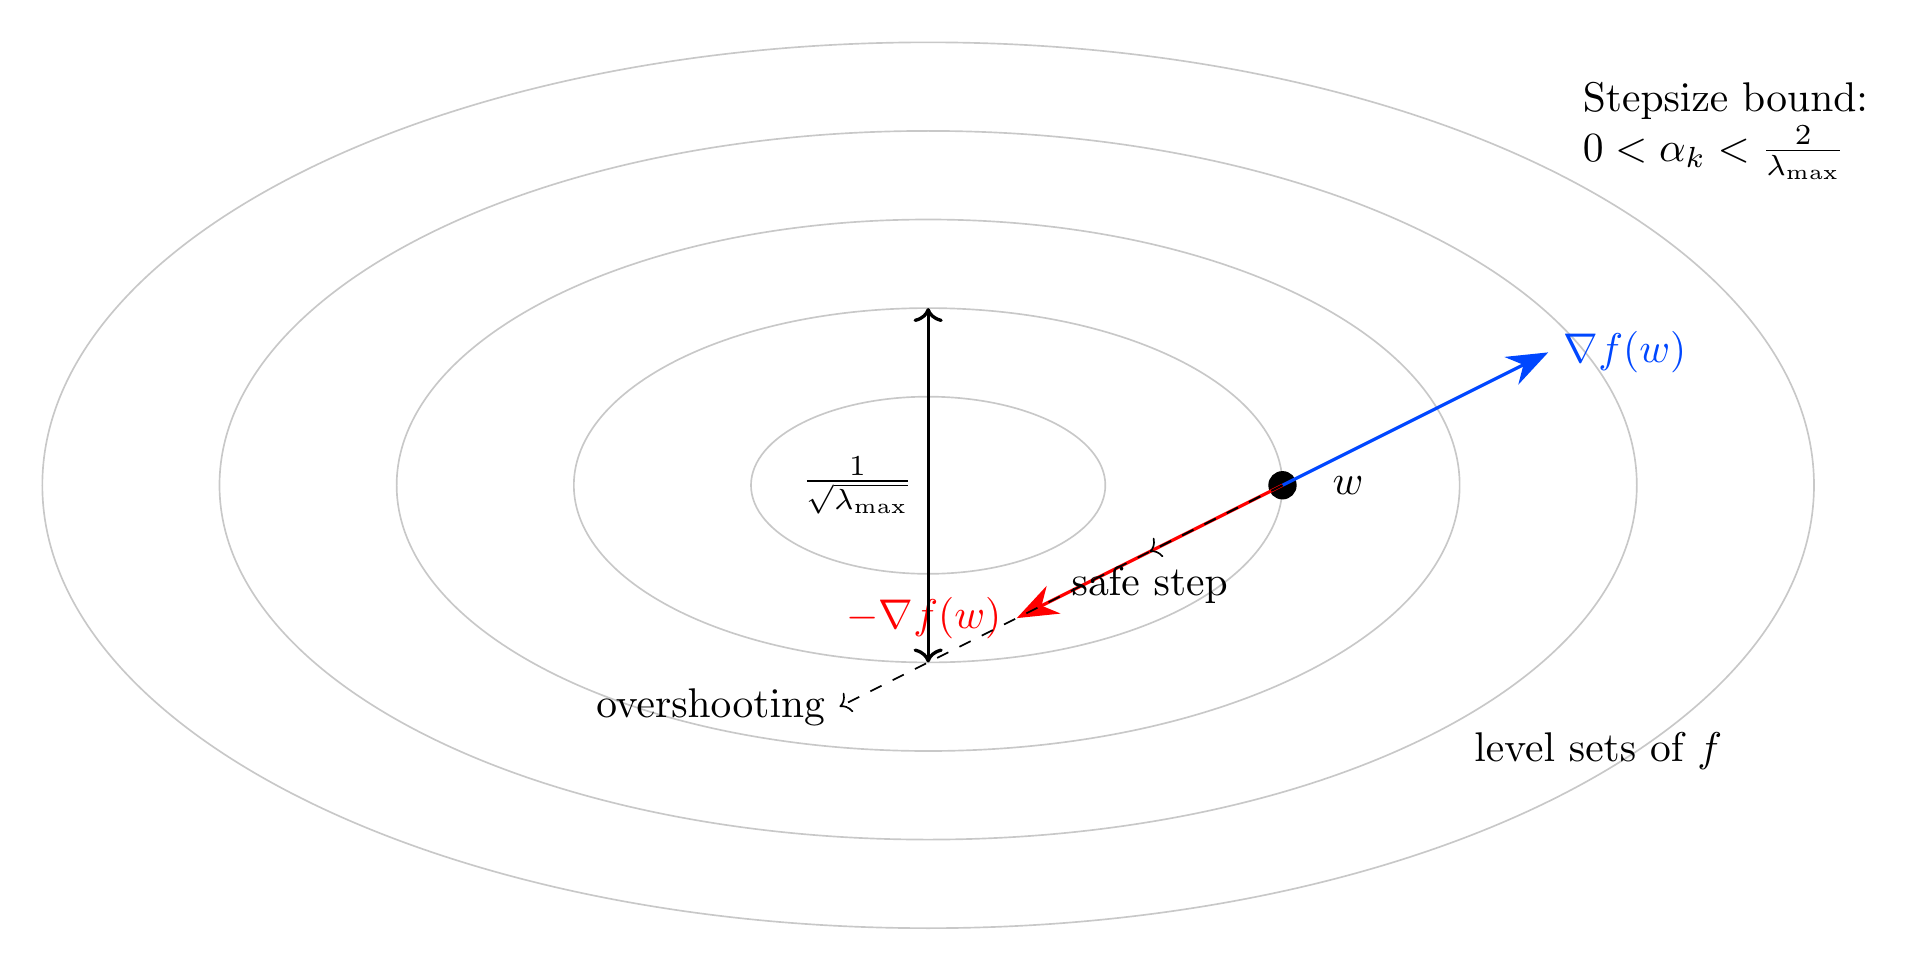
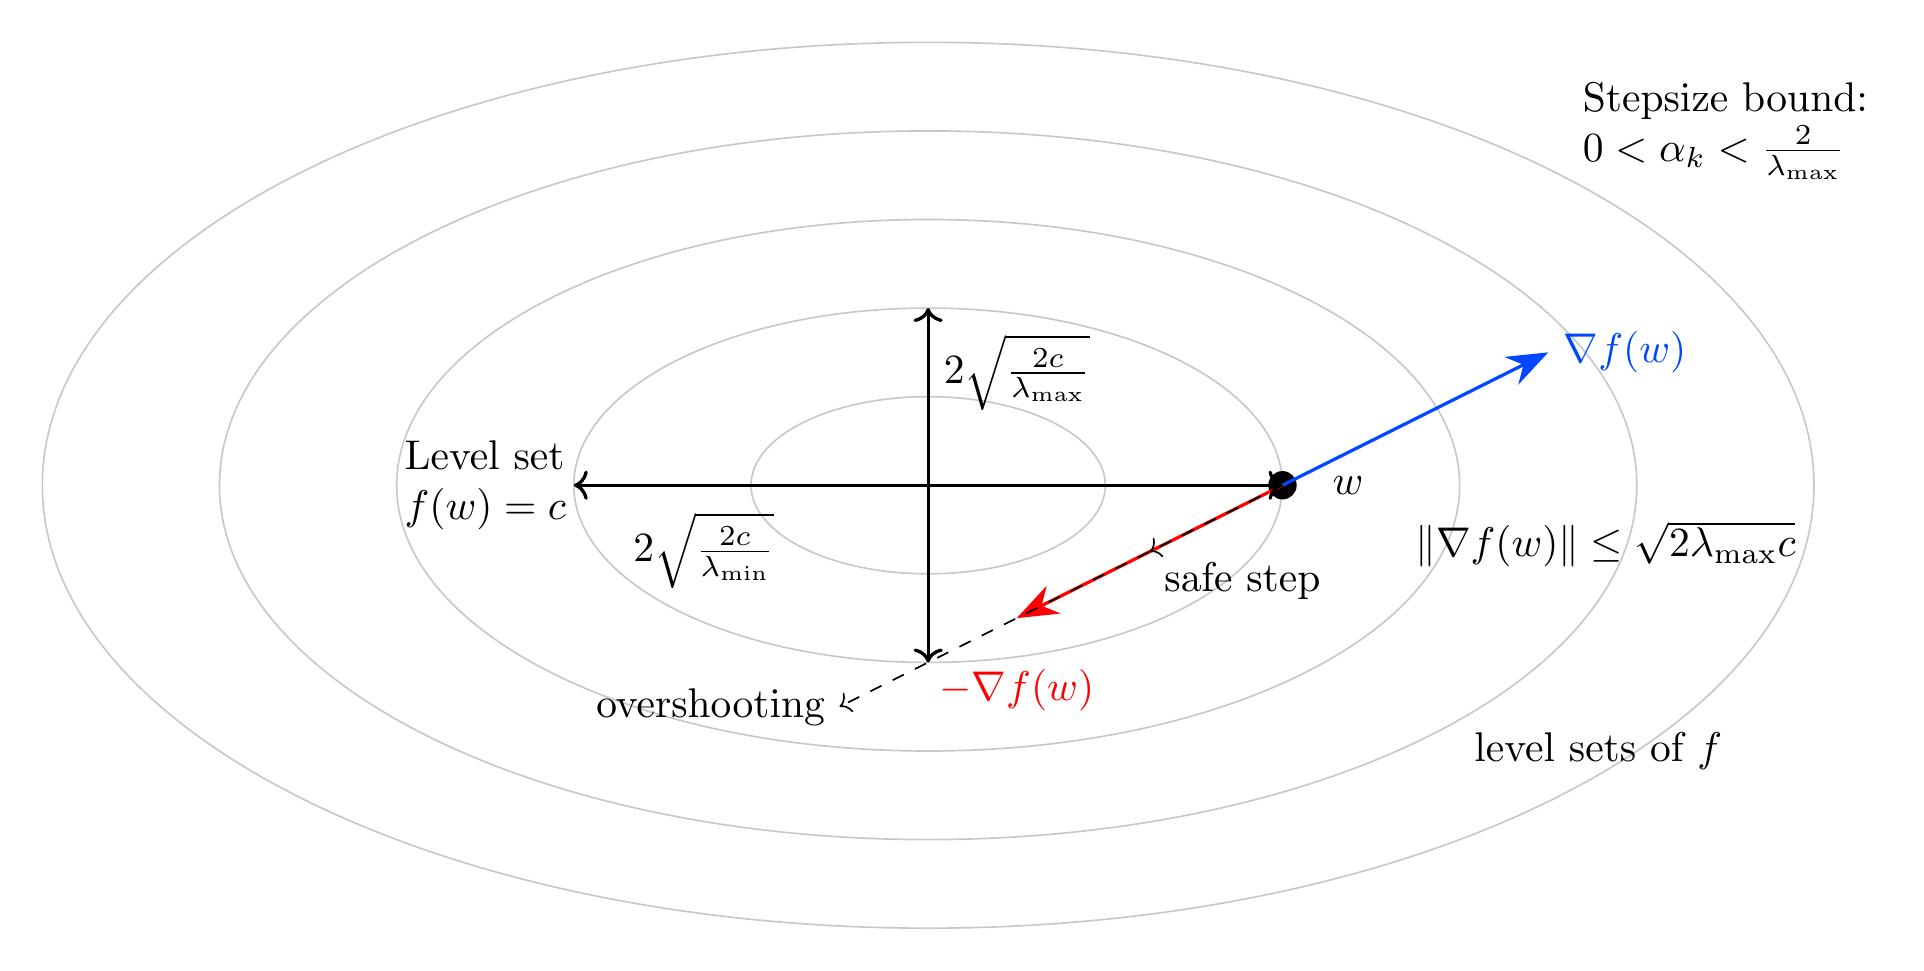
Update notes.md for enhanced clarity and consistency in formatting

diff --git a/section/3/notes.md b/section/3/notes.md
@@ -1,9 +1,8 @@
 ---
 layout: course_page
-title: Iterative Methods for Least Squares
+title: Linear regression: gradient descent
 ---
-
-# 3. Iterative Methods for Least Squares
+# Linear regression: gradient descent
 
 ## Notebooks and Slides
 - [Lecture slides](slides.pdf)
@@ -233,9 +232,13 @@ When the gradient vanishes, something remarkable happens: we've found a point wh
 
 This principle extends far beyond least squares. When the gradient of any function $f$ is zero, we've found what mathematicians call a first-order critical point or stationary point. The name captures the geometry: the function has stopped changing (to first order) in every direction, just as a ball at rest on a surface has no tendency to roll in any direction. This is precisely what you learned about minimizers in calculus - the gradient must vanish at any local minimum.
 
+![Critical Points](figures/critical_points.png)
+
 But not every critical point is a minimum - think of a ball balanced on a hill (a maximum) or resting at a saddle point. To guarantee we've found a minimum, we need to examine the second derivatives. In multiple dimensions, these form the Hessian matrix, which measures the local curvature in every direction. When the Hessian is positive definite (all eigenvalues positive), every direction curves upward, and we've found a local minimum.
 
-Our least squares problem has an even nicer structure. The Hessian $X^\top X$ is positive semidefinite everywhere - it's the same matrix at every point, with eigenvalues that are always nonnegative. This constant positive curvature explains the perfect elliptical level sets we saw earlier and is a signature of convex functions, where every local minimum must be a global minimum. We'll explore convexity in detail later, but for now, we have a powerful guarantee: when gradient descent finds a point where the gradient vanishes, we've solved our problem completely.
+Our least squares problem has an even nicer structure. The Hessian $X^\top X$ is positive semidefinite everywhere - it's the same matrix at every point, with eigenvalues that are always nonnegative. (See the figure below for a one-dimensional example.) This positive curvature explains the elliptical level sets we saw earlier and is a signature of convex functions, where every local minimum must be a global minimum.We'll explore convexity in detail later, but for now, we have a powerful guarantee: when gradient descent finds a point where the gradient vanishes, we've solved our problem completely.
+
+![Convex Quadratic](figures/convex_quadratic.png)
 
 ## The Algorithm
 
@@ -253,9 +256,9 @@ where $\lambda_{\max}$ is the largest eigenvalue. This connects beautifully to o
 
 ![Stepsize Geometry](figures/stepsize_geometry.png)
 
-The figure illustrates why the stepsize bound depends on $\lambda_{\max}$. The narrowest width of the level sets (shown by the vertical arrow) is proportional to $1/\sqrt{\lambda_{\max}}$ - this occurs in the direction of the eigenvector corresponding to $\lambda_{\max}$. Taking too large a step (shown by the "overshooting" path) moves us outside the current level set and potentially increases the objective value. The "safe step" stays within a region where our linear approximation remains valid. This geometric insight explains why we need smaller steps when $\lambda_{\max}$ is large - the level sets become very narrow in their thinnest direction, requiring more careful progress to avoid overshooting.
+The figure illustrates why the stepsize bound depends on $\lambda_{\max}$. For any level set where $f(w) = c$, it can be shown that $\|\nabla f(w)\| \leq \sqrt{2\lambda_{\max}c}$. The width of the level sets varies with both the value of $c$ and the eigenvalues: the narrowest width (shown by the vertical arrow) is $2\sqrt{\frac{2c}{\lambda_{\max}}}$ - this occurs in the direction of the eigenvector corresponding to $\lambda_{\max}$, while the widest width is $2\sqrt{\frac{2c}{\lambda_{\min}}}$ in the direction of the smallest eigenvalue. Taking too large a step (shown by the "overshooting" path) moves us outside the current level set and potentially increases the objective value. The "safe step" stays within a region where our linear approximation remains valid. This geometric insight explains why we need smaller steps when $\lambda_{\max}$ is large - the level sets become very narrow in their thinnest direction, requiring more careful progress to avoid overshooting.
 
-Second, the condition number of $X^\top X$ affects convergence speed. When all eigenvalues are similar (condition number near 1), the level sets are nearly circular, and we progress steadily toward the minimum. But when eigenvalues differ greatly, the level sets become highly elongated ellipses, forcing the algorithm to zigzag its way down a narrow valley. This geometric picture explains why poorly conditioned problems converge slowly. We'll see this zigzagging behavior clearly illustrated in the convergence plots below, where high condition numbers force the algorithm to take an inefficient meandering path to the solution.
+Second, the condition number of $X^\top X$ affects convergence speed. When all eigenvalues are similar (condition number near 1), the level sets are nearly circular, and we progress steadily toward the minimum. But when eigenvalues differ greatly, the level sets become highly elongated ellipses with the ratio of widths determined by $\sqrt{\lambda_{\max}/\lambda_{\min}}$, forcing the algorithm to zigzag its way down a narrow valley. This geometric picture explains why poorly conditioned problems converge slowly. We'll see this zigzagging behavior clearly illustrated in the convergence plots below, where high condition numbers force the algorithm to take an inefficient meandering path to the solution.
 
 Third, our initial guess $w_0$ matters. While gradient descent will eventually find the minimum for any starting point (thanks to convexity), a good initial guess can dramatically reduce the number of iterations needed. For least squares, starting at zero is often reasonable since it gives zero predictions - a natural baseline.
 
@@ -293,7 +296,7 @@ def gradient_descent(X, y, n_steps=100, step_size=0.01):
     return w, losses
 ```
 
-This implementation reveals several practical considerations. First, we compute gradients using two matrix-vector products (X@w then X.T@result) instead of forming X^T X. This maintains O(np) memory usage, crucial for large-scale problems. Second, we track the relative loss (f(w) - f*)/(f(w_0) - f*) to monitor convergence independent of problem scale.
+This implementation reveals several practical considerations. First, we compute gradients using two matrix-vector products ($Xw$ then $X^T (Xw - y)$) instead of forming $X^T X$. This maintains $O(np)$ memory usage, crucial for large-scale problems. Second, we track the relative loss $(f(w) - f*)/(f(w_0) - f^*)$ to monitor convergence independent of problem scale.
 
 Let's visualize how these factors affect convergence. We'll create test problems with different condition numbers and compare their convergence paths:
 
@@ -309,315 +312,9 @@ The contour plots show level sets of the objective function for different combin
 
 Later, we'll see how PyTorch's automatic differentiation can simplify this implementation, especially for more complex objective functions. But the core ideas - following the negative gradient with appropriate stepsize - remain the same.
 
-## Gradient Descent in PyTorch
+## Conclusion
 
-PyTorch makes implementing gradient descent remarkably simple through automatic differentiation. Let's compare manual gradient computation with PyTorch's automatic approach.
+We have much left to learn about gradient descent which like direct methods for least squares problems has limitations. For example, for large n or p, our $O(np)$ memory implementation fails. When n is large, computing the full gradient becomes too expensive - we need stochastic methods that estimate gradients from subsets. When p is large, coordinate descent methods that update parameters sequentially work better. We'll cover these variants later in the course. I started with least squares to get you using gradient descent quickly.
 
-### Manual Gradient Computation
+Next we'll study optimization problems in data science and machine learning. We'll write them down precisely and implement them in PyTorch. You'll see how to use autodifferentiation in practice, though we'll save the theory of why it works for later in the course.
 
-First, let's implement gradient descent by explicitly computing $X^\top X w - X^\top y$:
-
-```python
-def gradient_descent_manual(X, y, n_steps=100, lr=0.01):
-    # Initialize weights
-    w = torch.zeros(X.shape[1], requires_grad=False)
-    
-    # Precompute X^T X and X^T y for efficiency
-    XtX = X.T @ X
-    Xty = X.T @ y
-    
-    losses = []
-    for step in range(n_steps):
-        # Compute gradient manually
-        grad = XtX @ w - Xty
-        
-        # Update weights
-        w = w - lr * grad
-        
-        # Track loss
-        loss = 0.5 * ((X @ w - y)**2).sum()
-        losses.append(loss.item())
-    
-    return w, losses
-```
-
-### Automatic Differentiation Approach
-
-Now let's use PyTorch's autograd to compute gradients automatically:
-
-```python
-def gradient_descent_auto(X, y, n_steps=100, lr=0.01):
-    # Initialize weights with gradient tracking
-    w = torch.zeros(X.shape[1], requires_grad=True)
-    
-    losses = []
-    for step in range(n_steps):
-        # Forward pass: compute loss
-        y_pred = X @ w
-        loss = 0.5 * ((y_pred - y)**2).sum()
-        
-        # Backward pass: compute gradients
-        loss.backward()
-        
-        # Update weights (need to detach from computation graph)
-        with torch.no_grad():
-            w.data = w.data - lr * w.grad
-            w.grad.zero_()
-        
-        losses.append(loss.item())
-    
-    return w, losses
-```
-
-### Verifying Gradient Correctness
-
-We can verify that both approaches compute the same gradients:
-
-```python
-# Generate some test data
-X = torch.randn(100, 5)
-y = torch.randn(100)
-
-# Compare gradients
-w = torch.zeros(5, requires_grad=True)
-y_pred = X @ w
-loss = 0.5 * ((y_pred - y)**2).sum()
-loss.backward()
-auto_grad = w.grad.clone()
-
-manual_grad = X.T @ (X @ w.detach() - y)
-
-print("Maximum difference between gradients:",
-      (auto_grad - manual_grad).abs().max().item())
-```
-
-### Benefits of Automatic Differentiation
-
-The automatic approach has several advantages:
-
-1. **Flexibility**: Easy to modify the objective function
-2. **Correctness**: Eliminates potential errors in manual derivation
-3. **Efficiency**: PyTorch optimizes the computation
-4. **Simplicity**: No need to derive gradients by hand
-
-However, for the simple least squares case, manual computation can be more efficient since we can precompute $X^\top X$ and $X^\top y$. The real power of automatic differentiation becomes apparent with more complex objectives.
-
-In the next section, we'll explore practical considerations like stepsize selection and convergence criteria that are crucial for both approaches. 
-
-## Practical Considerations
-
-The theory of gradient descent is elegant, but making it work in practice requires careful attention to several key details.
-
-### Stepsize Selection
-
-The stepsize (or learning rate) $\alpha_k$ critically affects convergence. For least squares problems, we have three main options:
-
-1. **Constant stepsize**: Choose $\alpha_k = \alpha$ where:
-   $$ 0 < \alpha < \frac{2}{\lambda_{\max}(X^\top X)} $$
-   This ensures convergence but may be slow.
-
-2. **Exact line search**: At each step, solve:
-   $$ \alpha_k = \arg\min_\alpha f(w_k - \alpha g_k) $$
-   For least squares, this has a closed form:
-   $$ \alpha_k = \frac{\|g_k\|^2}{g_k^\top(X^\top X)g_k} $$
-
-3. **Backtracking line search**: Start with a large step and reduce until improvement is sufficient:
-   ```python
-   def backtracking_line_search(f, w, grad, direction, c=0.5, rho=0.8):
-       alpha = 1.0
-       f0 = f(w)
-       while f(w + alpha * direction) > f0 + c * alpha * grad.dot(direction):
-           alpha *= rho
-       return alpha
-   ```
-
-### Convergence Criteria
-
-We need to decide when to stop iterating. Common criteria include:
-
-1. **Gradient norm**: Stop when $\|g_k\| \leq \epsilon$
-2. **Relative improvement**: Stop when $\frac{|f_k - f_{k-1}|}{|f_k|} \leq \epsilon$
-3. **Maximum iterations**: Stop after fixed number of steps
-
-Here's a practical implementation combining these criteria:
-
-```python
-def gradient_descent_with_stopping(X, y, tol=1e-6, max_iter=1000):
-    w = torch.zeros(X.shape[1], requires_grad=True)
-    
-    for step in range(max_iter):
-        # Forward and backward passes
-        y_pred = X @ w
-        loss = 0.5 * ((y_pred - y)**2).sum()
-        loss.backward()
-        
-        # Check gradient norm
-        grad_norm = w.grad.norm()
-        if grad_norm < tol:
-            print(f"Converged at step {step}: gradient norm {grad_norm:.2e}")
-            break
-            
-        # Update weights
-        with torch.no_grad():
-            w.data -= lr * w.grad
-            w.grad.zero_()
-    
-    return w
-```
-
-### The Effect of Condition Number
-
-The condition number of $X^\top X$ strongly influences convergence rate. For a diagonal matrix with eigenvalues $\lambda_1 \geq \lambda_2 \geq \cdots \geq \lambda_n$, the convergence rate is:
-
-$$ \|w_k - w^*\| \leq \left(\frac{\kappa-1}{\kappa+1}\right)^k \|w_0 - w^*\| $$
-
-where $\kappa = \lambda_1/\lambda_n$ is the condition number. This shows that:
-
-1. High condition numbers lead to slow convergence
-2. Progress is determined by ratio of largest to smallest eigenvalues
-3. Poorly conditioned problems may require preconditioning
-
-We can visualize this effect using diagonal matrices in the next section.
-
-## Visualization with Diagonal Matrices
-
-Diagonal matrices provide an ideal setting to visualize gradient descent because:
-1. Their eigenvalues are explicit on the diagonal
-2. Their condition number is the ratio of largest to smallest diagonal entry
-3. The optimization trajectory lies in a 2D plane when solving $Ax = b$
-
-### A Simple 2D Example
-
-Let's create a diagonal system and visualize the optimization path:
-
-```python
-def create_diagonal_system(condition_number=10):
-    # Create diagonal matrix with specified condition number
-    lambda1, lambda2 = 1.0, 1.0/condition_number
-    A = torch.diag(torch.tensor([lambda1, lambda2]))
-    x_true = torch.tensor([1.0, 1.0])
-    b = A @ x_true
-    return A, b, x_true
-
-def plot_contours_and_path(A, b, path):
-    # Create contour plot of objective function
-    x1, x2 = torch.meshgrid(torch.linspace(-2, 2, 100),
-                           torch.linspace(-2, 2, 100))
-    Z = torch.zeros_like(x1)
-    for i in range(x1.shape[0]):
-        for j in range(x1.shape[1]):
-            x = torch.stack([x1[i,j], x2[i,j]])
-            Z[i,j] = 0.5 * ((A @ x - b)**2).sum()
-    
-    plt.figure(figsize=(10, 4))
-    
-    # Plot contours
-    plt.contour(x1, x2, Z, levels=20)
-    
-    # Plot optimization path
-    path = torch.stack(path)
-    plt.plot(path[:,0], path[:,1], 'r.-', label='GD path')
-    
-    # Plot optimal point
-    x_opt = torch.linalg.solve(A, b)
-    plt.plot(x_opt[0], x_opt[1], 'g*', 
-            markersize=15, label='Optimum')
-    
-    plt.axis('equal')
-    plt.legend()
-    plt.title(f'Condition Number: {A[0,0]/A[1,1]:.1f}')
-    plt.xlabel('$x_1$')
-    plt.ylabel('$x_2$')
-```
-
-### Effect of Condition Number
-
-Let's compare convergence for different condition numbers:
-
-```python
-def compare_condition_numbers():
-    fig, axes = plt.subplots(1, 3, figsize=(15, 4))
-    
-    for i, cond in enumerate([2, 10, 50]):
-        A, b, _ = create_diagonal_system(cond)
-        path = gradient_descent_path(A, b)
-        
-        plt.sca(axes[i])
-        plot_contours_and_path(A, b, path)
-        plt.title(f'κ = {cond}')
-    
-    plt.tight_layout()
-```
-
-This visualization reveals several key insights:
-
-1. **Elliptical Level Sets**: The contours of the objective function are ellipses, with axes aligned to the eigenvectors of $A$
-
-2. **Zigzagging**: With high condition numbers, the path zigzags between the walls of the valley, making slow progress toward the optimum
-
-3. **Step Size Sensitivity**: Poor conditioning makes the optimal step size harder to choose - too large and we overshoot, too small and progress is slow
-
-### The Relationship to Eigenvalues
-
-The visualization also helps understand why the convergence rate depends on $(\kappa-1)/(\kappa+1)$:
-
-1. In the direction of the largest eigenvalue, we make rapid progress
-2. In the direction of the smallest eigenvalue, progress is much slower
-3. The overall convergence rate is limited by the slowest direction
-
-This geometric understanding helps explain why:
-- Preconditioning (transforming to better condition number) helps
-- Momentum methods can accelerate convergence
-- Second-order methods (which we'll study later) can be more effective
-
-In the next lecture, we'll extend these ideas to stochastic gradient methods, which handle large datasets by sampling random subsets of the data.
-
-## Summary and Next Steps
-
-In this section, we've explored iterative methods for solving least squares problems, focusing on gradient descent. Key takeaways include:
-
-1. **Why Iterative Methods?**
-   - Direct methods become impractical for large problems
-   - Iterative methods trade exactness for scalability
-   - Memory requirements are much lower
-
-2. **The Mathematics**
-   - Gradient gives direction of steepest ascent
-   - Negative gradient gives optimal descent direction
-   - Convergence rate depends on condition number
-
-3. **Implementation Approaches**
-   - Manual gradient computation is possible but tedious
-   - PyTorch's autograd simplifies implementation
-   - Trade-off between flexibility and efficiency
-
-4. **Practical Considerations**
-   - Stepsize selection critically affects performance
-   - Multiple convergence criteria are needed
-   - Condition number determines convergence rate
-
-5. **Visualization and Intuition**
-   - Diagonal matrices reveal key behaviors
-   - High condition numbers cause zigzagging
-   - Progress is limited by smallest eigenvalue
-
-### Looking Ahead
-
-In the next lecture, we'll explore stochastic gradient methods, which are crucial for large-scale machine learning. Key topics will include:
-
-1. **Mini-batch Gradient Descent**
-   - Sampling strategies
-   - Variance reduction
-   - Adaptive learning rates
-
-2. **Practical Implementation**
-   - PyTorch DataLoader
-   - Batch processing
-   - GPU acceleration
-
-3. **Theoretical Analysis**
-   - Convergence guarantees
-   - Effect of batch size
-   - Learning rate schedules
-
-The concepts we've covered here - particularly the role of condition number and the importance of stepsize selection - will be essential for understanding these more advanced topics.
